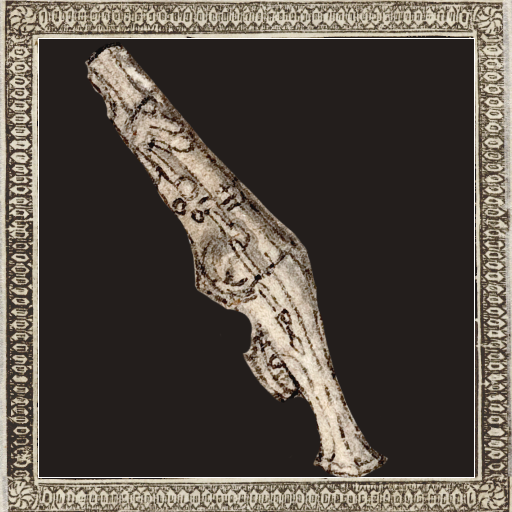
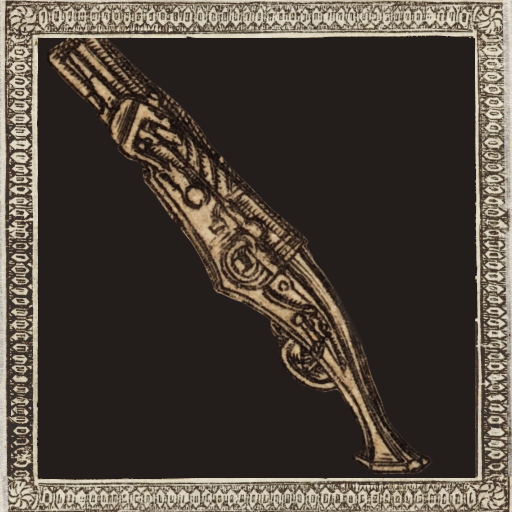
loadable gun with lead and silver - not shootable yet

Changed region(s): [[0.0938, 0.0625, 0.8438, 0.9375]]

diff --git a/src/example/game/inventory_components.h b/src/example/game/inventory_components.h
@@ -76,6 +76,14 @@ inline void RenderItemIcon(SDL_Renderer*renderer,const Item* item,SDL_Texture* b
             SDL_RenderCopy(renderer, iconVector[8], &iconScale, &destinationRect
             );
             break;
+        case ItemID::LoadedGunLead:
+            SDL_RenderCopy(renderer, iconVector[9], &iconScale, &destinationRect
+            );
+            break;
+        case ItemID::LoadedGunSilver:
+            SDL_RenderCopy(renderer, iconVector[10], &iconScale, &destinationRect
+            );
+            break;
         default:
             SDL_RenderCopy(renderer, iconVector[0], &iconScale, &destinationRect
             );
@@ -290,10 +298,10 @@ class InventoryScreen
 
 
 
-    void Click(int mouseX, int mouseY, int screenWidth, int screenHeight)
+    void Click(int mouseX, int mouseY, int screenWidth, int screenHeight, ItemManager* itemManager)
     {
 
-        if(currentPage.bIconSelected && currentPage.MouseOverIcon->referencedItem->GetHandsNeeded()!=0)
+        if(currentPage.bIconSelected && currentPage.MouseOverIcon->referencedItem->GetHandsNeeded()!=0 && !currentPage.MouseOverIcon->referencedItem->isBullet)
         {
             //fmt::println("Clicked while selection locked");
 
@@ -378,6 +386,118 @@ class InventoryScreen
 
 
 
+        }
+        else if(currentPage.bIconSelected && currentPage.MouseOverIcon->referencedItem->GetHandsNeeded() == 0 &&currentPage.MouseOverIcon->referencedItem->isBullet)
+        {
+            fmt::println("click bullet");
+            SDL_Rect ButtonRect //Left?
+                    ={
+                            static_cast<int>((screenWidth*0.01)*(currentPage.StartPoint.x -ItemDetailedView.Dimensions.x + ItemDetailedView.EquipRightPos.x)),
+                            static_cast<int>((screenHeight*(currentPage.StartPoint.y )*0.01)+ItemDetailedView.EquipRightPos.y*0.01*screenWidth),
+                            static_cast<int>(ItemDetailedView.ButtonScale.x*0.01*screenWidth),
+                            static_cast<int>(ItemDetailedView.ButtonScale.y*0.01*screenWidth)
+
+                    };
+            if(mouseX >= ButtonRect.x && mouseX < (ButtonRect.x + ButtonRect.w) &&
+               mouseY >= ButtonRect.y && mouseY < (ButtonRect.y + ButtonRect.h))
+            {
+                fmt::println("click left-bullet");
+
+                //is the gun equipped?
+                bool bGunPresent = false;
+                bool bGunWasEquipped = false;
+                bool bGunFirst = false;
+                if(currentCharacter->GetEquipment().first && currentCharacter->GetEquipment().first->GetItemID()==ItemID::GUN)
+                {
+                    currentCharacter->UnequipItem(ItemID::GUN);
+                    bGunPresent=true;
+                    bGunWasEquipped=true;
+                    bGunFirst=true;
+                }
+                else if(currentCharacter->GetEquipment().second && currentCharacter->GetEquipment().second->GetItemID()==ItemID::GUN)
+                {
+                    currentCharacter->UnequipItem(ItemID::GUN);
+                    bGunPresent=true;
+                    bGunWasEquipped=true;
+                    bGunFirst= false;
+                }
+                //is the gun in the inventory?
+                if(!bGunWasEquipped)
+                {
+                    for (Item* i: currentCharacter->GetInventory())
+                    {
+                        if(i->GetItemID()==ItemID::GUN)
+                        {
+                            bGunPresent = true;
+                        }
+                    }
+                }
+                //we have a gun! switch it with the loaded one
+                if (bGunPresent)
+                {
+                    currentCharacter->RemoveFromInventory(ItemID::GUN);
+                    switch (currentPage.MouseOverIcon->referencedItem->GetItemID()) {
+                        case(ItemID::BulletSilver):
+                            fmt::println("loading silver bullet");
+                            currentCharacter->RemoveFromInventory(currentPage.MouseOverIcon->referencedItem->GetItemID());
+
+
+
+                            //prevent 'empty item' being displayed/handled
+                            currentPage.MouseOverIcon = nullptr;
+                            currentPage.bIconHover=false;
+                            currentPage.bIconSelected = false;
+                            //equip or add?
+                            if(bGunWasEquipped)
+                            {
+                                //equip
+                                currentCharacter->EquipItem(itemManager->GetItem(ItemID::LoadedGunSilver));
+                            }
+                            else
+                            {
+                                //add
+                                currentCharacter->AddToInventory(itemManager->GetItem(ItemID::LoadedGunSilver));
+                            }
+
+
+                            RebuildInventory();
+                            currentCharacter->UpdateCurrentStats();
+
+                            break;
+                        default:
+                            fmt::println("loading lead bullet");
+                            currentCharacter->RemoveFromInventory(currentPage.MouseOverIcon->referencedItem->GetItemID());
+
+
+
+                            //prevent 'empty item' being displayed/handled
+                            currentPage.MouseOverIcon = nullptr;
+                            currentPage.bIconHover=false;
+                            currentPage.bIconSelected = false;
+                            //equip or add?
+                            if(bGunWasEquipped)
+                            {
+                                //equip
+                                currentCharacter->EquipItem(itemManager->GetItem(ItemID::LoadedGunLead));
+                            }
+                            else
+                            {
+                                //add
+                                currentCharacter->AddToInventory(itemManager->GetItem(ItemID::LoadedGunLead));
+                            }
+
+
+                            RebuildInventory();
+                            currentCharacter->UpdateCurrentStats();
+
+                            break;
+
+                    }
+                }
+
+
+                return;
+            }
         }
 
 

diff --git a/src/example/game/beasthoodstate.cpp b/src/example/game/beasthoodstate.cpp
@@ -157,6 +157,8 @@ namespace JanSordid::SDL_Example {
         String prayerbookIconPath = BasePath "/src/example/game/Ressources/Image_assets/items/prayerbook_icon.png";
         String torchIconPath = BasePath "/src/example/game/Ressources/Image_assets/items/torch_icon.png";
         String gunIconPath = BasePath "/src/example/game/Ressources/Image_assets/items/gun_icon.png";
+        String gunSilverIconPath = BasePath "/src/example/game/Ressources/Image_assets/items/gun_silver_icon.png";
+        String gunLeadIconPath = BasePath "/src/example/game/Ressources/Image_assets/items/gun_lead_icon.png";
         String ritualSkullIconPath = BasePath "/src/example/game/Ressources/Image_assets/items/ritual_skull_icon.png";
         String bulletLeadPath = BasePath "/src/example/game/Ressources/Image_assets/items/bullet_lead.png";
         String bulletSilverPath = BasePath "/src/example/game/Ressources/Image_assets/items/bullet_silver.png";
@@ -251,6 +253,8 @@ namespace JanSordid::SDL_Example {
         candleIcon = loadFromFile(candleIconPath);
         prayerbookIcon = loadFromFile(prayerbookIconPath);
         gunIcon= loadFromFile(gunIconPath);
+        gunLeadIcon= loadFromFile(gunLeadIconPath);
+        gunSilverIcon = loadFromFile(gunSilverIconPath);
         torchIcon= loadFromFile(torchIconPath);
         ritualSkullIcon = loadFromFile(ritualSkullIconPath);
 
@@ -268,6 +272,8 @@ namespace JanSordid::SDL_Example {
         Icons.push_back(ritualSkullIcon);//Skull=6
         Icons.push_back(bulletLead);//Lead = 7
         Icons.push_back(bulletSilver); //Silver = 8
+        Icons.push_back(gunLeadIcon); //Lead loaded gun = 9
+        Icons.push_back(gunSilverIcon); //Silver loaded gun = 10
 
 
 
@@ -525,13 +531,26 @@ namespace JanSordid::SDL_Example {
 
         // Create and add items
         auto sword = std::make_unique<Item>(ItemID::Halberd, ItemType::Melee, "Halberd of Valor", 2);
-        sword->SetStats({0, 0, 5, 0, 0, 0}); // Attack 10
+        sword->SetStats({0, 0, 5, 0, 0, 0});
         sword->SetAbility(staminaAbilityPtr); // Associate ability with item
         itemManager.AddItem(std::move(sword));
 
         auto torch = std::make_unique<Item>(ItemID::Torch, ItemType::Unique,"Not so Common Torch",1);
-        torch->SetStats({0, 0, 1, 1, 0, 5}); // Attack 10
+        torch->SetStats({0, 0, 1, 1, 0, 5});
         itemManager.AddItem(std::move(torch));
+
+        auto gun = std::make_unique<Item>(ItemID::GUN, ItemType::Unique,"Unloaded Gun",1);
+        gun->SetStats({0, 0, 1, 0, 0, 0}); // Attack 1
+        itemManager.AddItem(std::move(gun));
+
+        auto gunLoadedSilver = std::make_unique<Item>(ItemID::LoadedGunSilver, ItemType::Unique,"Gun - Silver Bullet",1);
+        gunLoadedSilver->SetStats({0, 0, 1, 2, 3, 3}); // Attack 1
+        itemManager.AddItem(std::move(gunLoadedSilver));
+
+        auto gunLoadedLead = std::make_unique<Item>(ItemID::LoadedGunLead, ItemType::Unique,"Gun - Lead Bullet",1);
+        gunLoadedLead->SetStats({0, 0, 1, 1, 0, 0}); // Attack 1
+        itemManager.AddItem(std::move(gunLoadedLead));
+
 
 
         auto prayerBook = std::make_unique<Item>(ItemID::PrayerBook, ItemType::Unique,"Prayer Book of St. Lycon",1);
@@ -546,11 +565,13 @@ namespace JanSordid::SDL_Example {
         ritual_skull->SetStats({0, 0, 0, 0, 1, -2});
         itemManager.AddItem(std::move(ritual_skull));
 
-        auto bullet_silver = std::make_unique<Item>(ItemID::BulletSilver,ItemType::Magic,"Silver Bullet",1);
-        bullet_silver->SetStats({0, 0, 1, 2, 2, 2});
+        auto bullet_silver = std::make_unique<Item>(ItemID::BulletSilver,ItemType::Magic,"Silver Bullet",0);
+        bullet_silver->isBullet = true;
+        bullet_silver->SetStats({0, 0, 0, 0, 2, 2});
         itemManager.AddItem(std::move(bullet_silver));
-        auto bullet_lead = std::make_unique<Item>(ItemID::BulletLead,ItemType::Ranged,"Lead Bullet",1);
-        bullet_lead->SetStats({0, 0, 1, 0, 0, 0});
+        auto bullet_lead = std::make_unique<Item>(ItemID::BulletLead,ItemType::Ranged,"Lead Bullet",0);
+        bullet_lead->isBullet = true;
+        bullet_lead->SetStats({0, 0, 0, 0, 0, 0});
         itemManager.AddItem(std::move(bullet_lead));
 
         // Access and use an item
@@ -599,6 +620,7 @@ namespace JanSordid::SDL_Example {
         currentCharacter->AddToInventory(itemManager.GetItem(ItemID::Talisman));
         currentCharacter->AddToInventory(itemManager.GetItem(ItemID::BulletSilver));
         currentCharacter->AddToInventory(itemManager.GetItem(ItemID::BulletLead));
+        currentCharacter->AddToInventory(itemManager.GetItem(ItemID::GUN));
 
         inventoryScreen = InventoryScreen(currentCharacter);
 
@@ -855,7 +877,7 @@ namespace JanSordid::SDL_Example {
                 //int mouseX, mouseY;
                 SDL_GetMouseState(&mouseOverX, &mouseOverY);
 
-                    inventoryScreen.Click(mouseOverX,mouseOverY,windowSize.x,windowSize.y);
+                    inventoryScreen.Click(mouseOverX,mouseOverY,windowSize.x,windowSize.y,&itemManager);
                     fmt::println("equip handled?");
                     //inventoryScreen.BuildInventory(); //CTD RIP
 

diff --git a/src/example/game/item.h b/src/example/game/item.h
@@ -5,8 +5,8 @@
 
 class Item {
 public:
-    Item(ItemID itemName, ItemType itemType, const std::string& name, uint8_t handsNeeded, bool isEquipped = false,bool isLoaded = false,bool hasStats = true)
-            : itemName(itemName), itemType(itemType), name(name), handsNeeded(handsNeeded), isEquipped(isEquipped),isLoaded(isLoaded),hasStats(hasStats),
+    Item(ItemID itemName, ItemType itemType, const std::string& name, uint8_t handsNeeded, bool isEquipped = false,bool isLoaded = false,bool hasStats = true,bool bIsBullet = false)
+            : itemName(itemName), itemType(itemType), name(name), handsNeeded(handsNeeded), isEquipped(isEquipped),isLoaded(isLoaded),hasStats(hasStats), isBullet(bIsBullet),
               stats(0,0,0,0,0,0) {}
 
     // Accessors
@@ -32,6 +32,7 @@ public:
 
     bool hasStats;
     bool isLoaded;
+    bool isBullet;
 
 private:
     ItemID itemName;
@@ -43,5 +44,6 @@ private:
 
     Stats stats;
     Ability* ability = nullptr; // Pointer to an associated ability
+
 
 };

diff --git a/src/example/game/example_game.hpp b/src/example/game/example_game.hpp
@@ -374,15 +374,20 @@ namespace JanSordid::SDL_Example {
         Texture * missingIcon = nullptr;
         Texture * candleIcon = nullptr;
         Texture * prayerbookIcon = nullptr;
-        Texture * gunIcon = nullptr;
+
         Texture * torchIcon = nullptr;
 
         Texture *ritualSkullIcon = nullptr;
 
         Texture * halberdIcon = nullptr;
 
+        Texture * gunIcon = nullptr;
         Texture * bulletSilver = nullptr;
         Texture * bulletLead = nullptr;
+        Texture * gunSilverIcon = nullptr;
+        Texture * gunLeadIcon = nullptr;
+
+
         std::vector<Texture*> Icons;
 
         //NPCs

diff --git a/src/example/global.hpp b/src/example/global.hpp
@@ -68,7 +68,9 @@ enum class ItemID {
 
     RitualSkull,
     BulletLead,
-    BulletSilver};
+    BulletSilver,
+    LoadedGunLead,
+    LoadedGunSilver};
 enum class ItemType {Melee,Ranged,Magic,Unique};
 enum class LocationID {
     Forest,
